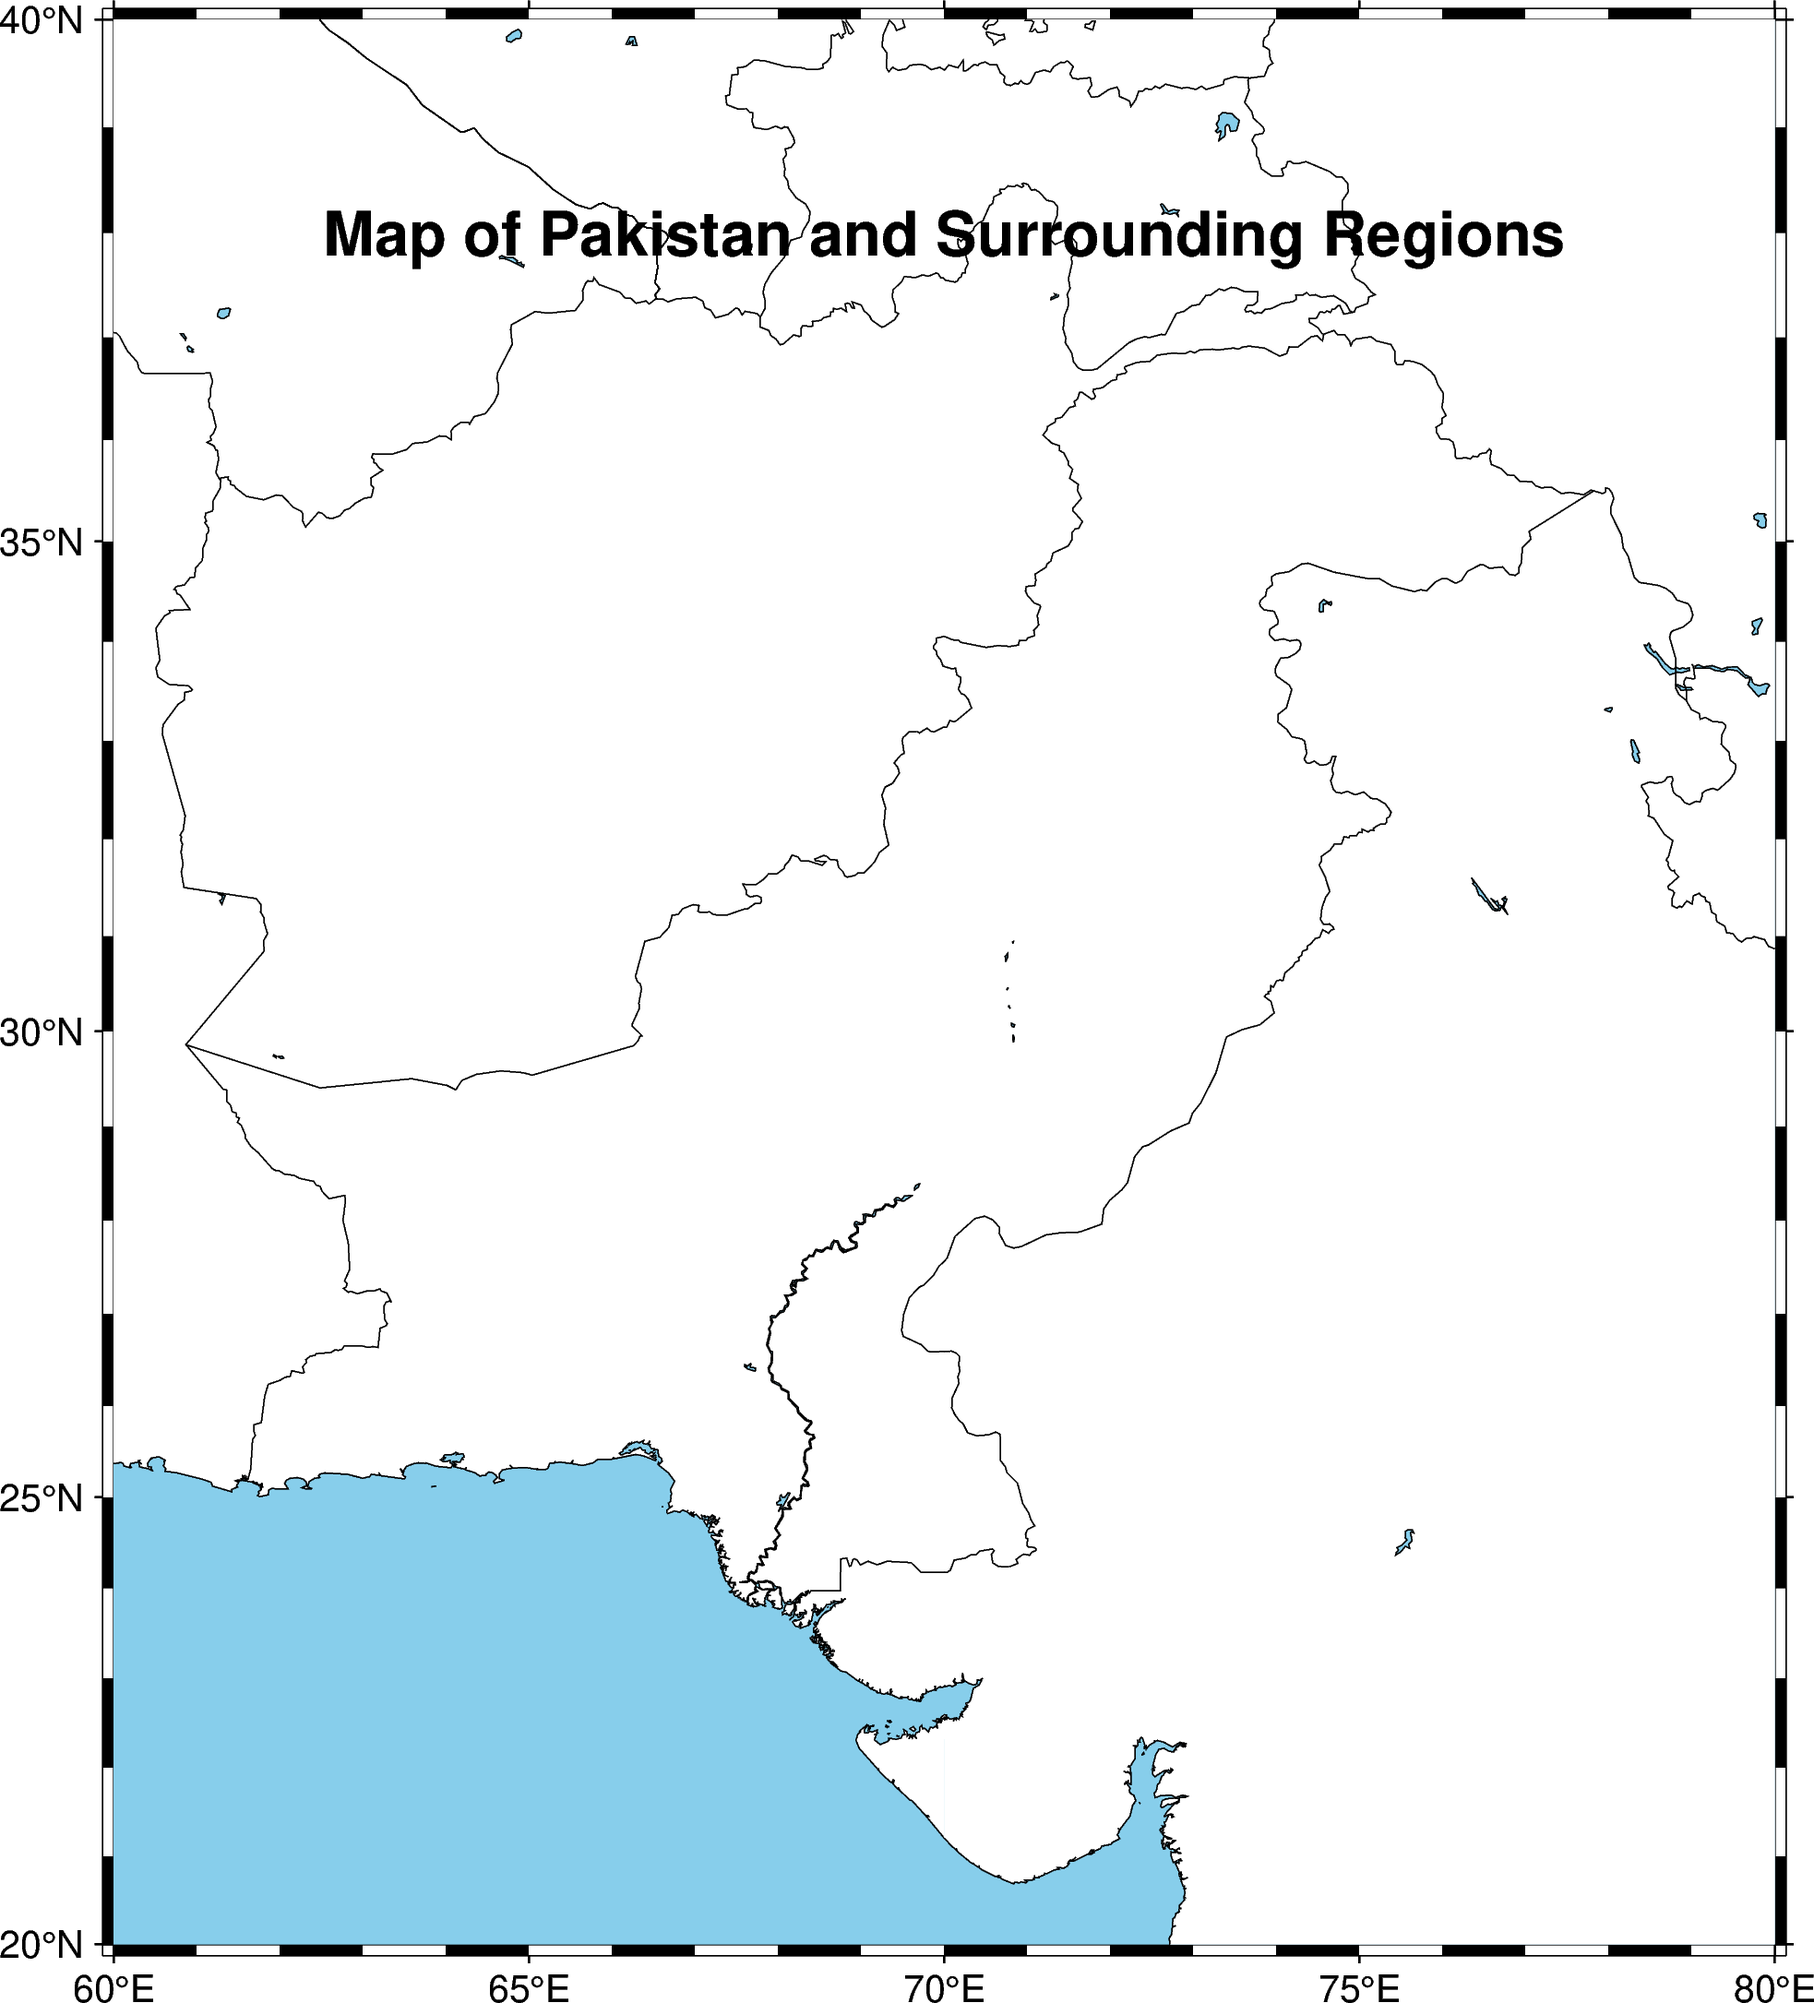
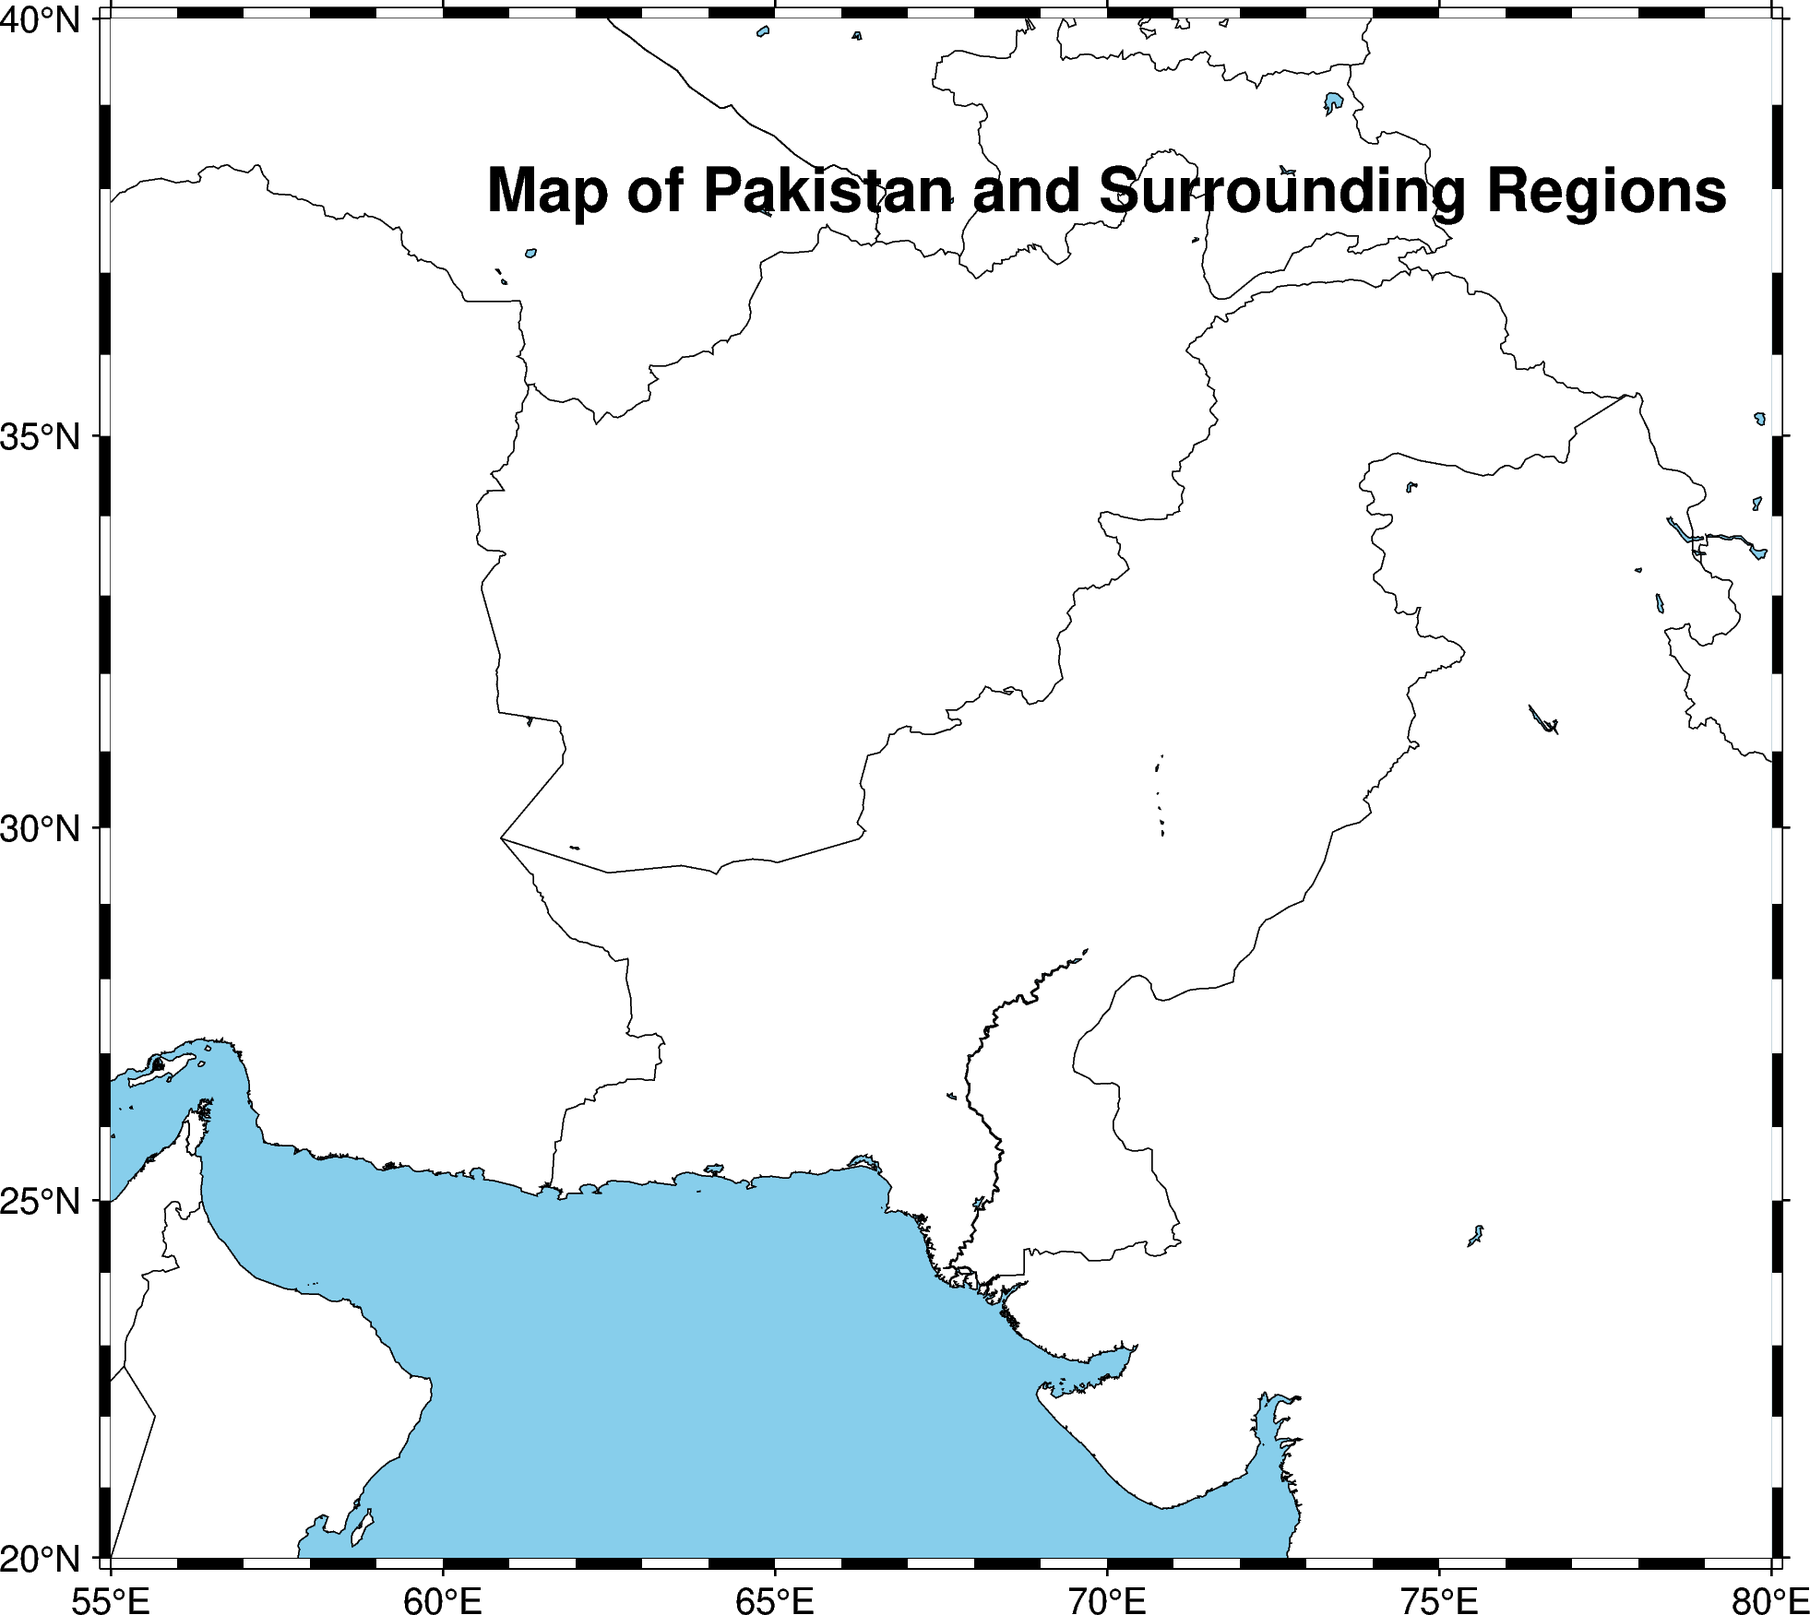
changed region.

diff --git a/pygmtPlotPakRegion.py b/pygmtPlotPakRegion.py
@@ -1,7 +1,7 @@
 import pygmt
 
 # Define the region to plot (Pakistan and surrounding areas)
-region = [60, 80, 20, 40]  # [xmin, xmax, ymin, ymax]
+region = [55, 80, 20, 40]  # [xmin, xmax, ymin, ymax]
 
 # Create a figure
 fig = pygmt.Figure()
